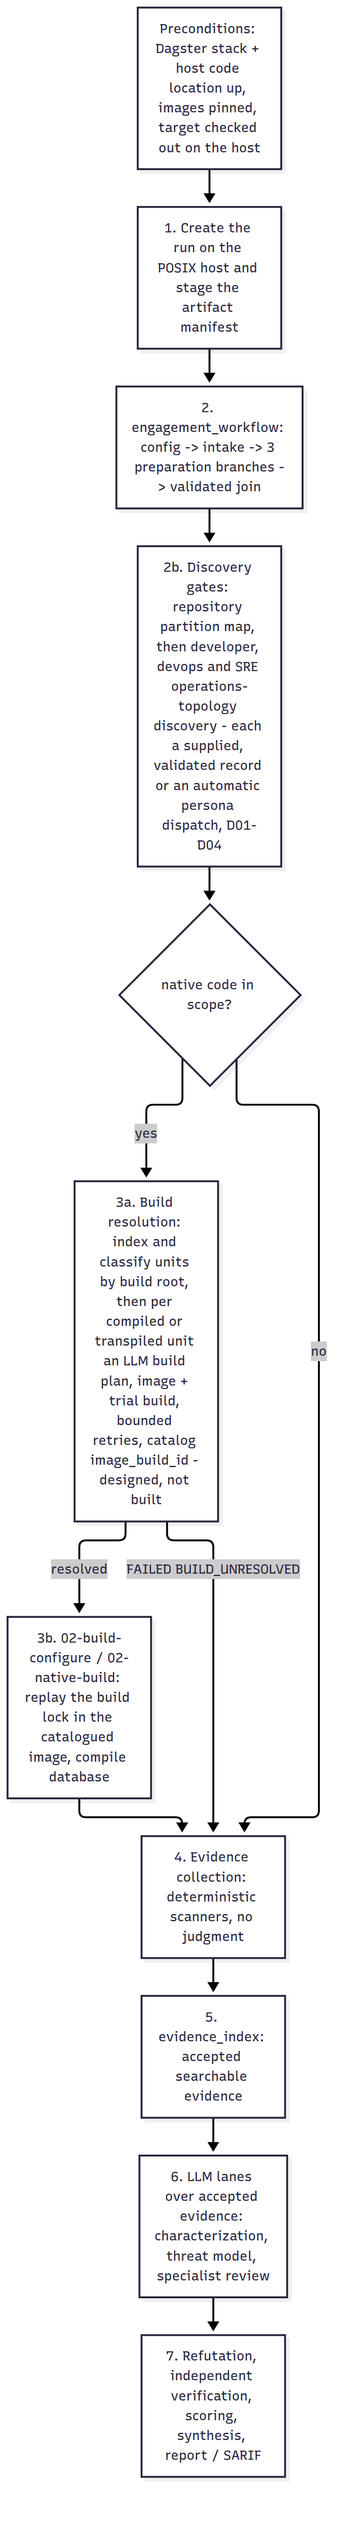
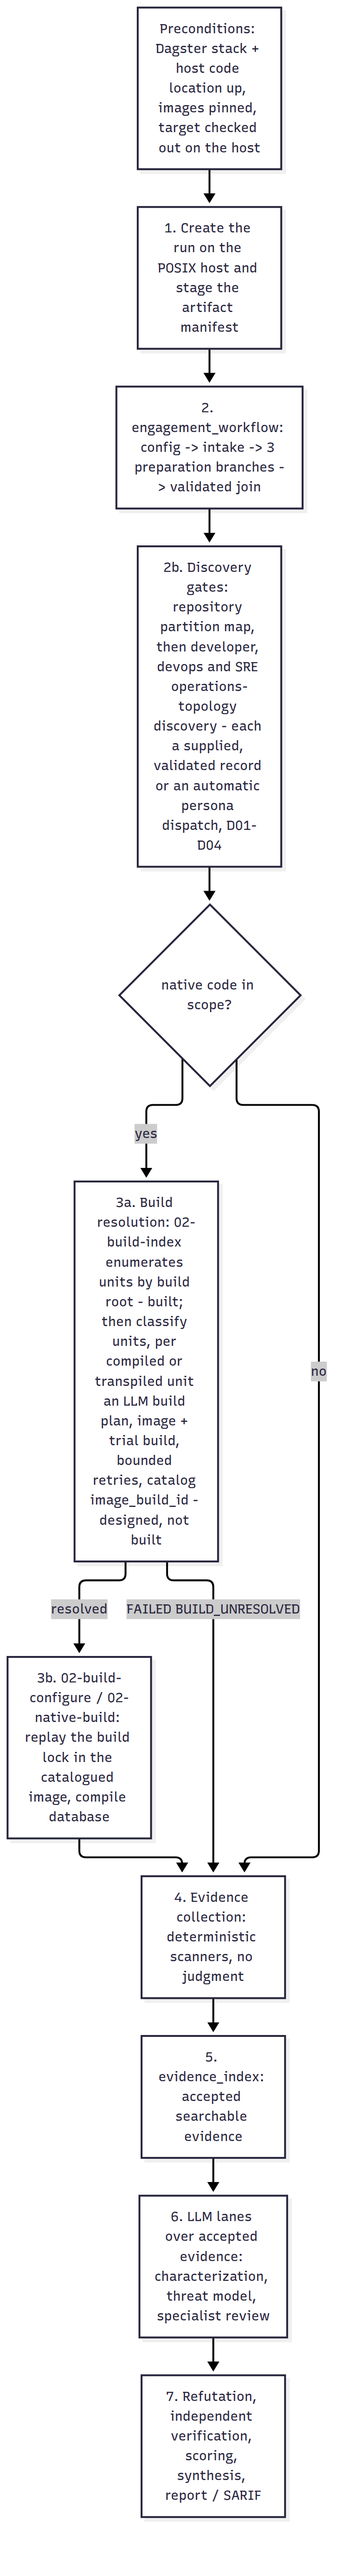
build-index docs (step 5)
build-resolution.md section 1 describes what was built (units, members,
not-units, required D02/D03 edges, deferred-docs exception, redaction,
bounds and priority, byte-equal rebuild validation, attempt-root output
paths); engagement-start.md step 3a and flow-bringup.md chart split the
index (built, live SAT pending) from plan + resolution (next), with a log
entry stating plainly that nothing is built or compiled yet; Mermaid
renders refreshed; job-catalog model label; TODO Phase 5g item 2 ticked
with readiness still implemented_not_qualified. BPMN unchanged (the
build lane is not in the pre-submission model).

Claude-Session: https://claude.ai/code/session_01VpAY9Ss9XPTvAzpPWt3M4N

diff --git a/docs/processes/engagement-start.md b/docs/processes/engagement-start.md
@@ -19,7 +19,7 @@ flowchart TD
   S1[1. Create the run on the POSIX host and stage the artifact manifest] --> S2
   S2[2. engagement_workflow: config -> intake -> 3 preparation branches -> validated join] --> S2b
   S2b[2b. Discovery gates: repository partition map, then developer, devops and SRE operations-topology discovery - each a supplied, validated record or an automatic persona dispatch, D01-D04] --> G1{native code in scope?}
-  G1 -- yes --> S3a[3a. Build resolution: index and classify units by build root, then per compiled or transpiled unit an LLM build plan, image + trial build, bounded retries, catalog image_build_id - designed, not built]
+  G1 -- yes --> S3a[3a. Build resolution: 02-build-index enumerates units by build root - built; then classify units, per compiled or transpiled unit an LLM build plan, image + trial build, bounded retries, catalog image_build_id - designed, not built]
   S3a -- resolved --> S3[3b. 02-build-configure / 02-native-build: replay the build lock in the catalogued image, compile database]
   S3a -- FAILED BUILD_UNRESOLVED --> S4
   G1 -- no --> S4
@@ -32,7 +32,8 @@ flowchart TD
 Built today: 1, 2, 2b, 5 and the `critical_findings_sarif` publisher, all run-owned and validated.
 Step 3a (build resolution: how to build an unknown target, with what tools, and whether it can be
 done at all) is designed in [build-resolution.md](build-resolution.md) (ADR-0012), extended per unit
-by [build-unit-classification.md](build-unit-classification.md), and not built.
+by [build-unit-classification.md](build-unit-classification.md). Its first job, the deterministic
+`02-build-index`, is built (2026-09-25; SAT stage 10); `02-build-plan` and `02-build-resolution` are not.
 Step 3b is built only partially: `build_execution` configures a single CMake root from the older
 `build_discovery` branch, through the `buildenv-common` wrapper. It refuses other build systems (the
 `hello-autotools` fixture among them), does not consume step 2b's developer project discovery, and
@@ -92,7 +93,7 @@ Per-job inputs and outputs, and their rollup per process model, are in the gener
 | 1 | `run_process.py --start`, `stage_artifacts.py` | Running stack and host code location; target checkout on the host | `inputs/artifact-manifest.json` | Manifest validates. |
 | 2 | `engagement_workflow` (`launch_job.py --run-id <id> --wait`) | Manifest; `engagement_run_id` tag | `data/jobs/00-intake/whole/accepted.json`: source revision + dirty/untracked fingerprints, language/workspace/build/deployment families, native compile/link-recipe plan, specialist routing; `data/workflows/engagement/accepted.json` after the join | Workflow `OK`. `QUEUED`/`STARTED` are not completion. Intake passing says nothing about native build coverage. |
 | 2b | `repository_partition_discovery`, then `dev_project_discovery`, `devops_project_discovery` and `sre_operations_topology` | Accepted intake; a supplied `supplied/result.json` per gate (fixtures: `fixtures/supply_record.py`), **or** this run opted the gate into automatic dispatch (`discovery_gate.set_dispatch_mode`; all four gates support it); dev and devops discovery each also need the accepted partition map at the same source revision; sre topology needs the accepted devops record at the same source revision | `data/jobs/02-repository-partition-discovery/` (partition map, persona routing, review scope), `data/jobs/02-dev-project-discovery/accepted.json`, `data/jobs/02-devops-project-discovery/accepted.json` (project, manifests, build image, safe command plan) and `data/jobs/02-sre-operations-topology/accepted.json` (services, ports, dependencies, coverage gaps) | Without a supplied record (and no automatic-dispatch opt-in) a gate fails with an actionable hand-off (`handoff.md`), never a silent pass. Citations must match the target's current file hashes. |
-| 3a | `02-build-index`, `02-build-plan`, `02-build-resolution` (designed, [build-resolution.md](build-resolution.md)) | Accepted intake, partition map and discovery records; `target-execution` and `package-restore` grants (apt now; other ecosystems per TODO Phase 5f); `build_resolution_attempts` (3, per unit; no cap on units), `build_image_reuse` (`auto`) | Cited build index with candidate units; per-unit classification and validated plans; per-attempt image, logs and exit codes; `image_build_<id>` catalogued and a per-unit `build-lock.json` entry for each resolved unit | Per unit `OK`, `FAILED(BUILD_UNRESOLVED)` or `BLOCKED`; job `OK`, `OK_WITH_GAPS`, `UNRESOLVED`, `BLOCKED` or `SKIPPED`. A failed unit blocks only its own native jobs; the engagement continues. Repository Dockerfiles are never built; nothing built is run (ADR-0012 revision 1). |
+| 3a | `02-build-index` (built), `02-build-plan`, `02-build-resolution` (designed, [build-resolution.md](build-resolution.md)) | Accepted intake, partition map and discovery records; `target-execution` and `package-restore` grants (apt now; other ecosystems per TODO Phase 5f); `build_resolution_attempts` (3, per unit; no cap on units), `build_image_reuse` (`auto`) | Cited build index with candidate units; per-unit classification and validated plans; per-attempt image, logs and exit codes; `image_build_<id>` catalogued and a per-unit `build-lock.json` entry for each resolved unit | Per unit `OK`, `FAILED(BUILD_UNRESOLVED)` or `BLOCKED`; job `OK`, `OK_WITH_GAPS`, `UNRESOLVED`, `BLOCKED` or `SKIPPED`. A failed unit blocks only its own native jobs; the engagement continues. Repository Dockerfiles are never built; nothing built is run (ADR-0012 revision 1). |
 | 3b | `build_discovery` then `build_execution` (today; replaced by 3a + E01/E02) | Accepted intake; native families present; no current `build-discovery.md` for this exact target | Cited build requirements and command arrays (no execution); then one sandboxed configure inside the hostile-build boundary (`docs/architecture/design-v3.md` §2.2) and `compile_commands.json` when produced | Feasibility gate (ADR-0001 Tier A/B/C) recorded; a missing compile database blocks native lanes, not the engagement. |
 | 4 | today: `pipeline/engagement_job.sh` / `.ps1` outside Dagster; target: `02-*` nodes | Target checkout; images; (today) manual import afterwards | Static prepass, native pregather, `assemble`, `correlate`, `deep_confirm`, retrieval plan, `job-status.json` with explicit degraded status | Every tool records exit/duration/log; a tool that did not run is a coverage gap, never "clean". |
 | 5 | `evidence_index` | Accepted intake (+ imports) | `data/jobs/02-evidence-index/whole/accepted.json`; bounded CLI / read-only MCP retrieval (`docs/evidence/evidence-retrieval.md`) | Index is a locator, never evidence authority. |

diff --git a/docs/processes/build-resolution.md b/docs/processes/build-resolution.md
@@ -1,6 +1,7 @@
 # Build resolution: learning how to build an unknown target
 
-Status: **DESIGN, not built** (2026-09-24). Decision record: [ADR-0012](../decisions/ADR-0012-build-resolution.md).
+Status: **section 1 (`02-build-index`) BUILT 2026-09-25** (`build_index.py`, SAT stage 10); sections 2-5
+(`02-build-plan`, `02-build-resolution`, catalog and lock) **DESIGN, not built** (2026-09-24). Decision record: [ADR-0012](../decisions/ADR-0012-build-resolution.md).
 **Extended 2026-09-25** by [build-unit-classification.md](build-unit-classification.md): the loop below runs
 once per compiled or transpiled unit, and a failed unit blocks only that unit's jobs. ADR-0012
 [Revision 1](../decisions/ADR-0012-build-resolution.md#revision-1-2026-09-25-per-unit-resolution-model-classification)
@@ -63,14 +64,28 @@ Never built: a repository's own Dockerfile (only images our code renders from a 
 Never run: any built target. Dependencies for non-apt ecosystems follow `TODO.md` Phase 5f (public
 registries for the POC, TLS and lockfile hash verification, restore during provisioning only).
 
-## 1. `02-build-index` (deterministic)
+## 1. `02-build-index` (deterministic) -- built
 
-A Python indexer that reads the checkout and writes one bounded, cited index for the model. It
-executes nothing from the target, makes no network calls and makes no judgments. It replaces
-`build_discovery.py`'s collector, which only looks for CMake.
+A Python indexer (`appsec-review-process/build_index.py`) that reads the checkout and writes one
+bounded, cited index for the model. It executes nothing from the target, makes no network calls and
+makes no judgments: it assigns no class. It replaces `build_discovery.py`'s collector, which only
+looks for CMake. It runs in-process on the common worker-result envelope (`deterministic_python`),
+standalone as the Dagster job `build_index` and in `full_review` as `job_02_build_index`.
 
-**Reads:** the accepted intake (source revision, file inventory, families), the accepted partition
-map (roots and deferred partitions; deferred partitions are indexed as names only), the checkout.
+**Reads (the graph's required edges):** the accepted intake (source revision, file inventory and
+`evidence/source.json` fingerprints, excluded paths), the accepted partition map (deferred partitions
+are indexed as names only: see below), the accepted D02 and D03 records (cross-check context only), and
+the staged checkout. Every upstream artifact is pinned by sha256 in the fingerprinted input record, so
+a changed upstream is a new attempt, never a reuse.
+
+**Units.** One per build root: `dir:<root>` for the directory of a defining manifest (`dir:.` for the
+repository root), `file:<path>` for a per-file definition (a `Dockerfile`, `Containerfile` or compose
+file). A nested root, or a vendored tree with no manifest of its own, is a **member** of the enclosing
+unit when the enclosing build files name its path outside a comment (or a quoted workspace glob matches
+it), cited by a `nested-root-reference` signal; otherwise it is its own unit, or a **not-unit** when it
+is an unreferenced vendored or example copy, or lies in a deferred partition. For hello-autotools:
+`dir:.` (`configure.ac`, `Makefile.am`; member `vendor/cJSON-1.7.18`, named by `libcjson_a_SOURCES`)
+and `file:Dockerfile`.
 
 **Collects, each as a signal with path, sha256 and line range:**
 
@@ -82,15 +97,27 @@ map (roots and deferred partitions; deferred partitions are indexed as names onl
 | Human instructions | `README*`, `INSTALL*`, `BUILDING*`, `HACKING*`: only sections whose headings or text match build/install/dependency terms |
 | Layout | file counts by extension, top-level directories, generated-file markers (`configure` present or not) |
 
-**Writes:** `data/jobs/02-build-index/.../outputs/build-index.json` (new schema
-`appsec-review/build-index/1`) and a readable `build-index.md`.
+**Deferred partitions:** files inside them contribute no excerpt, except the manifests of units and
+members and human build instructions (README, INSTALL, BUILDING and similar), which the plan needs and
+which D01 usually defers with the rest of the documentation.
 
-**Bounds:** excerpts at most 4 KiB each, at most 400 signals, index at most 512 KiB; overflow is
-recorded as `truncated` with counts, never silently dropped. Excerpts are wrapped as untrusted
-target data (the model is told they are data, never instructions; AGENTS.md).
+**Writes:** `data/jobs/02-build-index/attempts/<attempt_id>/build-index.json` (schema
+`appsec-review/build-index/1`), a readable `build-index.md` (no excerpt text), `status.json` and the
+envelope `result.json`. Status `OK`, or `OK_WITH_GAPS` when signals were omitted or no unit exists.
 
-**Validates:** schema; every signal's sha256 recomputed from the checkout; same source revision as
-intake; no file outside the checkout.
+**Bounds:** excerpts at most 4 KiB each, at most 400 signals (at most 40 per file), index at most
+512 KiB; one manifest signal per unit is reserved and the rest are kept by priority (manifests,
+nested references, lockfiles, toolchain, dependencies, markers, container, generated, packaging, CI,
+docs). Every omission is counted in `truncated`, never silently dropped. Excerpts are untrusted target
+data (the model is told they are data, never instructions; AGENTS.md); secret-like text matching the
+published-result patterns is replaced by `[REDACTED:<kind>]`, counted, and the validator applies the
+same replacement.
+
+**Validates:** schema; source revision and fingerprint equal the accepted intake's; the index names
+exactly the accepted upstream attempts; every signal's sha256, line range and excerpt recomputed from
+the checkout; no path outside the checkout or through a link; unique ids, every reference resolving,
+every unit citing a manifest and every member a reference; truncation counts consistent; and a
+byte-equal rebuild from the same inputs (the index is deterministic).
 
 ## 2. Image catalog lookup (reuse)
 

diff --git a/docs/processes/flow-bringup.md b/docs/processes/flow-bringup.md
@@ -29,12 +29,13 @@ flowchart TD
   S5["S5 02-dev-project-discovery<br/>supply_record.py: ACCEPTED"]:::done
   S5b["S5b devops + SRE topology discovery<br/>ACCEPTED (SAT stages 8-9)"]:::done
   AD["Automatic persona dispatch D01-D04<br/>SAT --dispatch stages 6-9, live 2026-09-25"]:::done
-  S6a["S6a build resolution: index + classify units, per-unit LLM plan,<br/>image + trial build loop, image_build_id catalog<br/>(build-resolution.md, build-unit-classification.md)<br/>NEXT: designed"]:::next
+  S6i["S6a-1 02-build-index: candidate units + cited signals<br/>deterministic, nothing executed<br/>built 2026-09-25; live SAT stage 10 pending"]:::done
+  S6a["S6a-2 02-build-plan (classify units, per-unit LLM plan)<br/>then 02-build-resolution (image + trial build loop, image_build_id catalog)<br/>(build-resolution.md, build-unit-classification.md)<br/>NEXT: designed"]:::next
   S6["S6b 02-build-configure / 02-native-build<br/>replay the build lock; blocked: S6a, Phase 3, E01"]:::blocked
   B13["Phase 3: B13 into service + B16 image registry"]:::todo
   E01["E01/E02: replay the lock through B13"]:::todo
 
-  P0 --> P1 --> S1 --> S2 --> S3 --> S4a --> S4b --> S5 --> S5b --> S6a --> S6
+  P0 --> P1 --> S1 --> S2 --> S3 --> S4a --> S4b --> S5 --> S5b --> S6i --> S6a --> S6
   AD -.-> S4b
   AD -.-> S5
   AD -.-> S5b
@@ -257,6 +258,20 @@ supported". The configure worker planned as batch E01 replays S5's command plan 
 
 ## Log
 
+- 2026-09-25 -- **`02-build-index` built (TODO Phase 5g item 2; branch `build-lane-per-unit`).** The
+  first build-lane job: a deterministic indexer (`build_index.py`) that lists candidate build units
+  (one per build root) and their cited build signals; it executes nothing and assigns no class.
+  Commits: schema, output contract and registry records (`6c34ebc`); indexer and 35 focused tests
+  (`83ff692`; WSL 35 OK including the real hello-autotools fixture); graph node with required edges on
+  intake, D01, D02 and D03 (William's choice), common-envelope worker, Dagster job `build_index`,
+  design-parity entry and regenerated views (`2c3d28b`; WSL: design parity PASS with 52 jobs,
+  `--check-contracts` PASS, code location `LOADED`); SAT stage 10 with an exact answer key
+  (`62846b6`). The pre-existing `diagram drift` failure is fixed: `job-graph.mmd` had not been
+  regenerated after the D04 edge change. Secret-like excerpt text is redacted, because the shared
+  result validator would otherwise reject any target with a token in a Dockerfile or CI file. For
+  hello-autotools the index gives `dir:.` (with member `vendor/cJSON-1.7.18`) and `file:Dockerfile`.
+  **Not yet:** the live SAT through stage 10. **Nothing is built yet:** no build plan, no image, no
+  compile; those are `02-build-plan` and `02-build-resolution` (next).
 - 2026-09-25 -- **Build lane decisions settled (branch `build-lane-per-unit`).** William: the model
   classifies every unit (the index stays deterministic and assigns no class); one unit per build
   root; ecosystem order npm, Maven/Gradle, cargo + Go, NuGet; **repository Dockerfiles are not built**,

diff --git a/docs/processes/job-catalog.md b/docs/processes/job-catalog.md
@@ -296,7 +296,7 @@ The steps run so far on hello-autotools, in process-flow order. Source: `docs/pr
 | [dev_project_discovery (Dagster job)](#step-dev-project-discovery) | Dagster job | [`02-repository-partition-discovery`](#a-job-02-repository-partition-discovery)<br>[`dev-supplied`](#a-dev-supplied)<br>[`loaded-job-list`](#a-loaded-job-list) | [`02-dev-project-discovery`](#a-job-02-dev-project-discovery)<br>[`dev-handoff`](#a-dev-handoff) |
 | **Group rollup** | | **Enters:** [`dev-record`](#a-dev-record)<br>[`sut-checkout`](#a-sut-checkout)<br>[`run-dir`](#a-run-dir)<br>[`02-repository-partition-discovery`](#a-job-02-repository-partition-discovery)<br>[`loaded-job-list`](#a-loaded-job-list) | **Leaves:** [`02-dev-project-discovery`](#a-job-02-dev-project-discovery)<br>[`dev-handoff`](#a-dev-handoff) |
 
-### Fixture bring-up: S6a Build resolution (designed)
+### Fixture bring-up: S6a Build resolution (index built; plan and resolution designed)
 
 | Step | Type | Consumes | Produces |
 |---|---|---|---|

diff --git a/appsec-review-process/TODO.md b/appsec-review-process/TODO.md
@@ -1084,7 +1084,9 @@ Work order (one piece at a time):
    lane is not in the pre-submission model). Original item: update `build-resolution.md`,
    Mermaid, BPMN (if the flow changes) and the job catalog in the same change (Full protocol for the
    new graph nodes: `job-graph.json`, `design-parity-manifest.json`, schemas, contracts, tests).
-2. [ ] `02-build-index` + `build-index.json` schema + tests; SAT stage 10.
+2. [x] `02-build-index` + `build-index.json` schema + tests; SAT stage 10. Built 2026-09-25 (`6c34ebc`,
+   `83ff692`, `2c3d28b`, `62846b6`); readiness `implemented_not_qualified` until the live SAT through
+   stage 10 is recorded (then the design-parity entry moves to qualified).
 3. [ ] `02-build-plan` (classification + per-unit plan; `task-build-plan.md`; claim builder); SAT
    stage 11.
 4. [ ] `02-build-resolution` (per unit); SAT stage 12.
